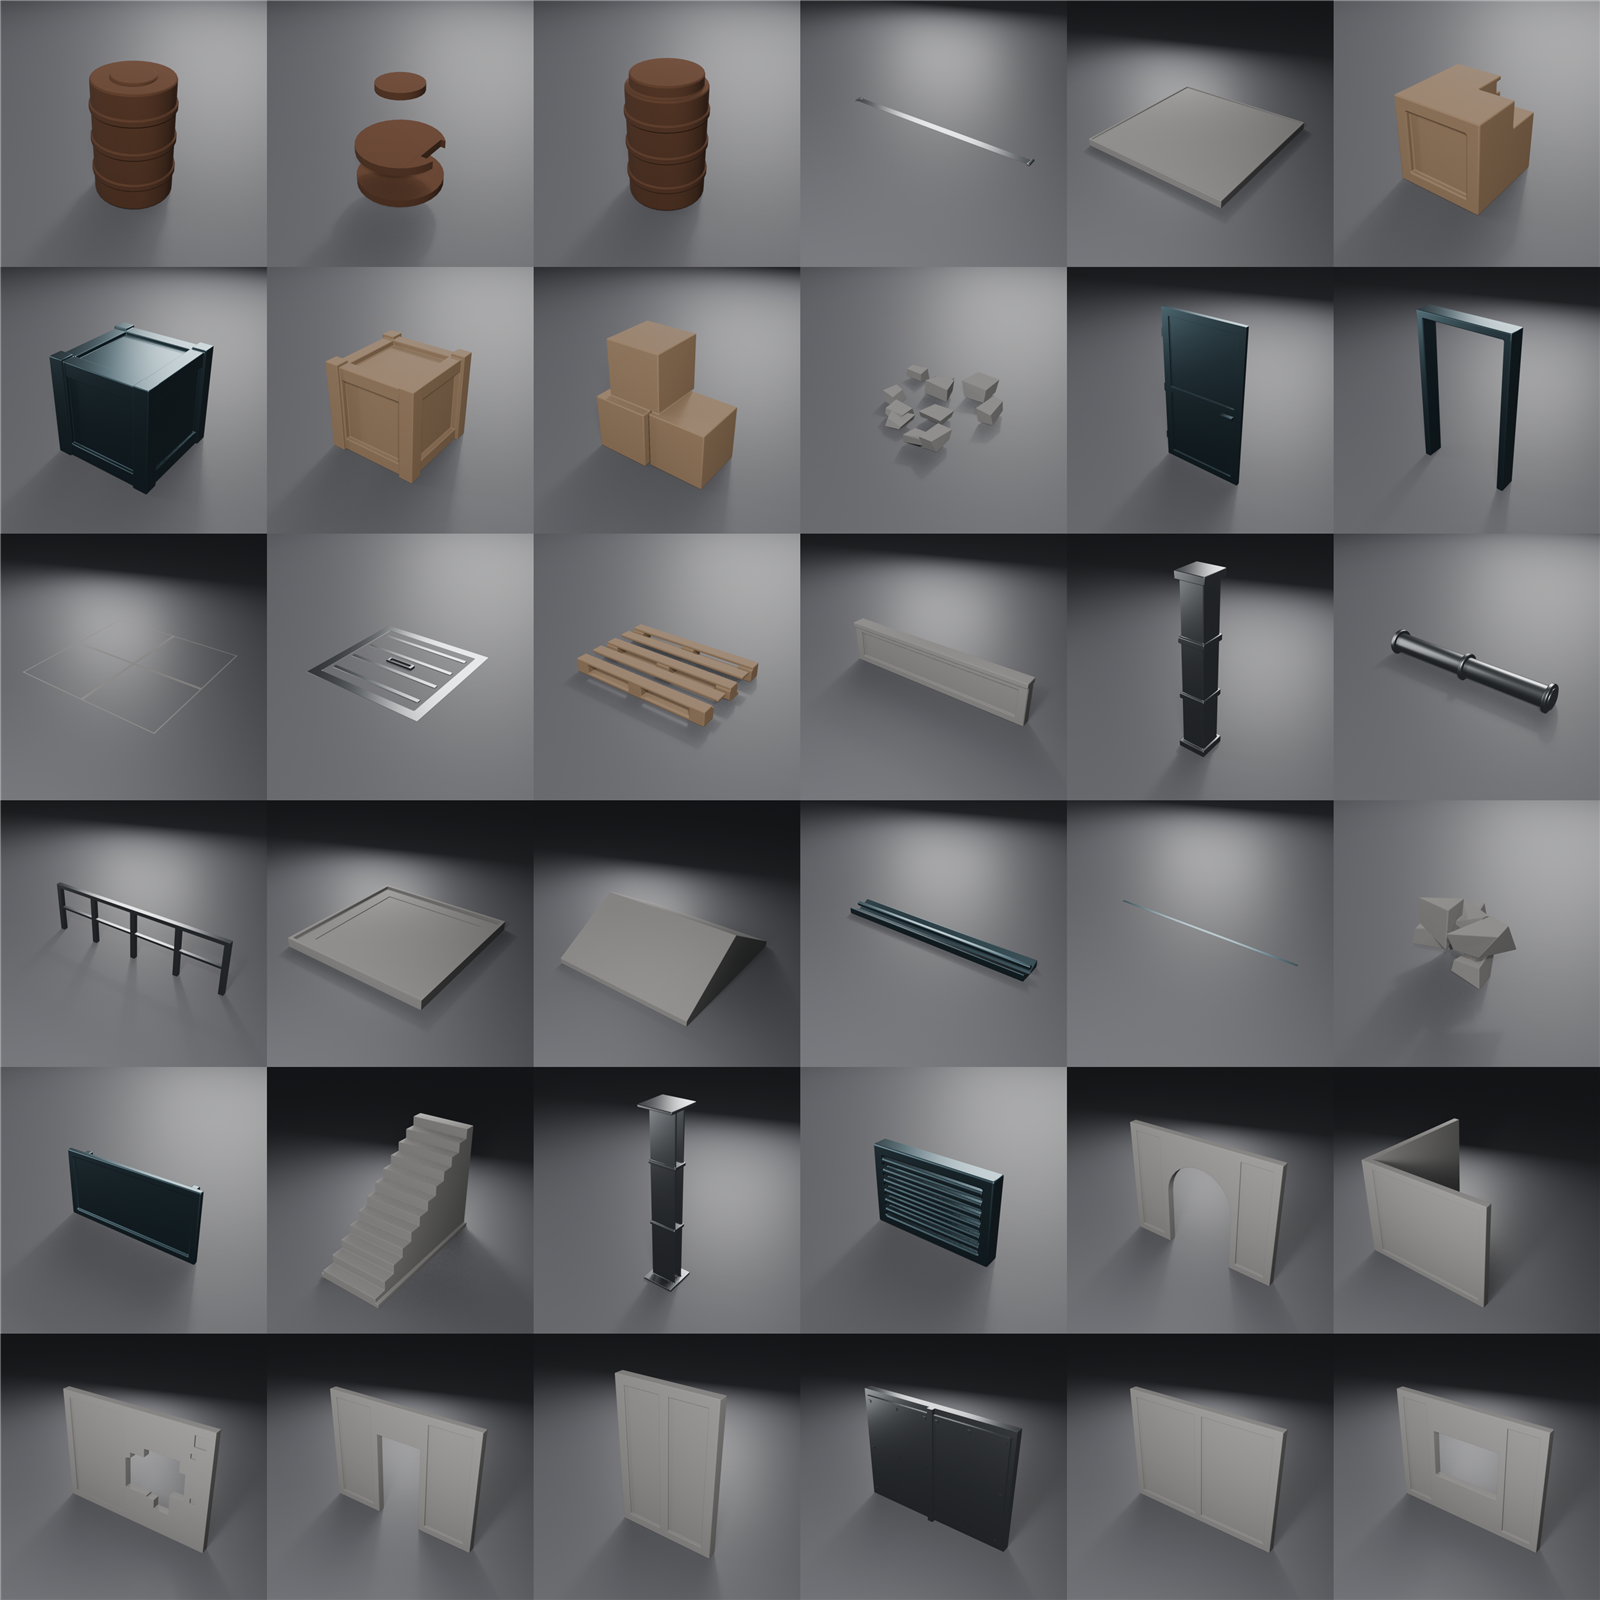
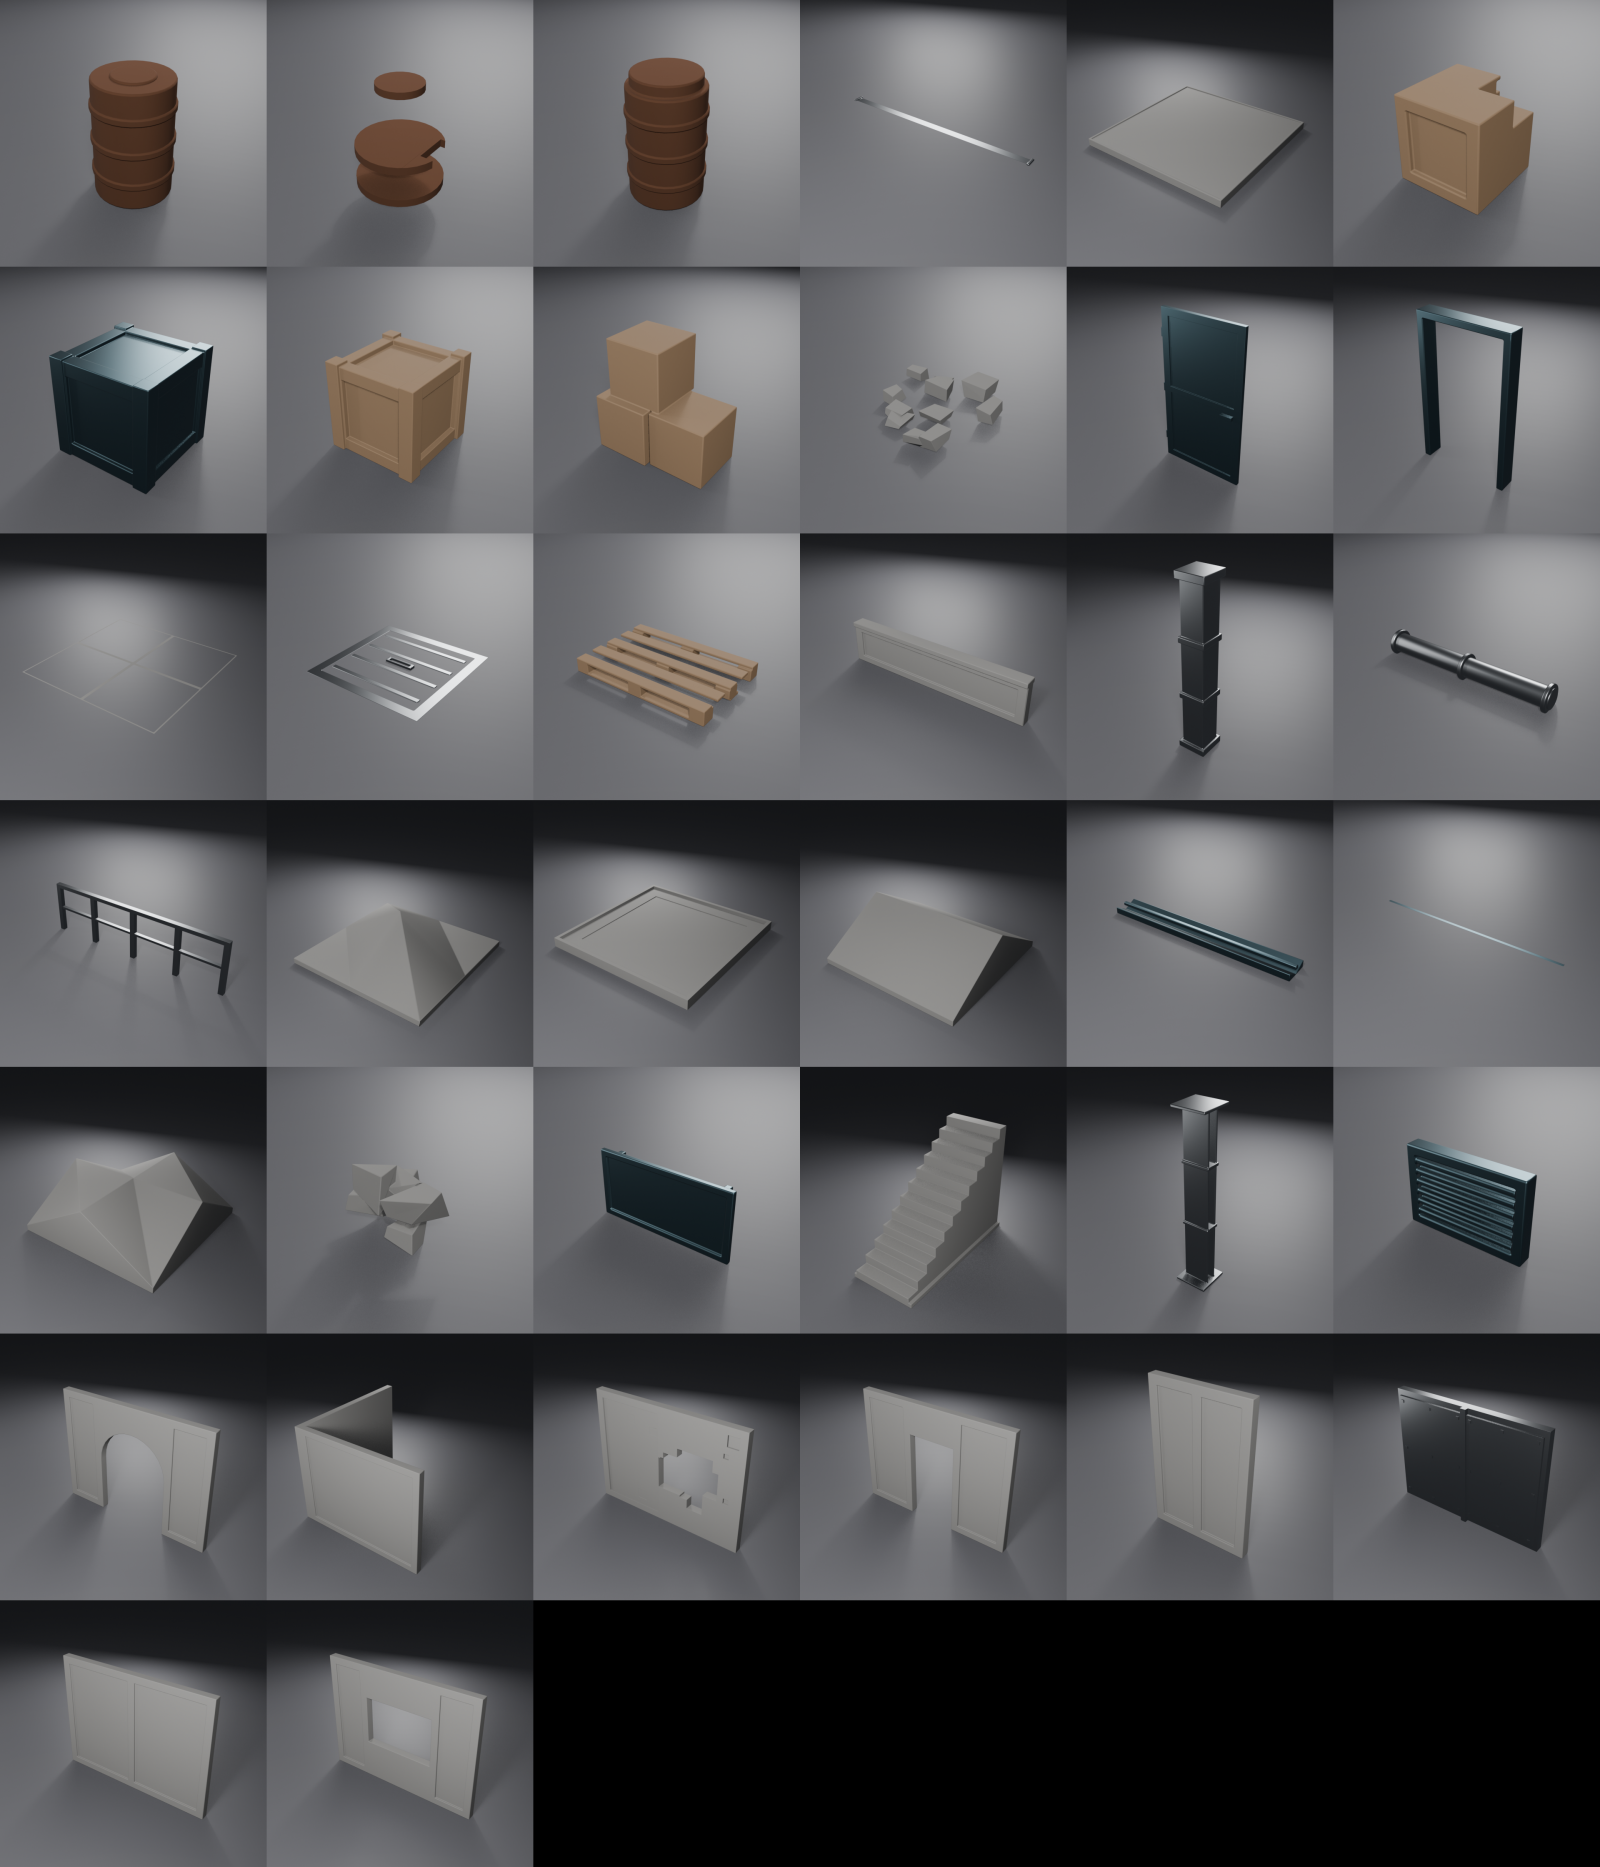
Prepare ModKit v1.2 public release

diff --git a/index.html b/index.html
@@ -8,7 +8,17 @@
 <meta charset="utf-8">
 <meta http-equiv="refresh" content="0; url=./docs/">
 <link rel="canonical" href="./docs/">
-<title>ModKit — free CC0 modular asset pack</title>
+<title>ModKit — 38 free CC0 modular assets</title>
+<meta name="description" content="38 procedural CC0 building and prop assets for Unreal, Unity, three.js and Blender. Try every mesh live or download the complete pack.">
+<meta property="og:title" content="ModKit — 38 free CC0 modular assets">
+<meta property="og:description" content="Procedural, grid-snapping game assets for Unreal, Unity, three.js and Blender. FBX, GLB and .blend included.">
+<meta property="og:image" content="https://raw.githubusercontent.com/JaronKBragg7337/asset-pack-ue-threejs-blender-unity/main/previews/_ContactSheet_web.png">
+<meta property="og:url" content="https://jaronkbragg7337.github.io/asset-pack-ue-threejs-blender-unity/">
+<meta property="og:type" content="website">
+<meta name="twitter:card" content="summary_large_image">
+<meta name="twitter:title" content="ModKit — 38 free CC0 modular assets">
+<meta name="twitter:description" content="Procedural, grid-snapping game assets for Unreal, Unity, three.js and Blender.">
+<meta name="twitter:image" content="https://raw.githubusercontent.com/JaronKBragg7337/asset-pack-ue-threejs-blender-unity/main/previews/_ContactSheet_web.png">
 </head>
 <body style="font-family:system-ui;background:#0d0f12;color:#e6e9ee;padding:40px">
 <p>Redirecting to the <a href="./docs/" style="color:#5b9dd9">ModKit viewer</a>…</p>

diff --git a/docs/index.html b/docs/index.html
@@ -8,7 +8,12 @@
 <meta property="og:title" content="ModKit — free CC0 modular asset pack">
 <meta property="og:description" content="38 procedurally generated public-domain 3D assets for Unreal, Unity, three.js and Blender.">
 <meta property="og:image" content="https://raw.githubusercontent.com/JaronKBragg7337/asset-pack-ue-threejs-blender-unity/main/previews/_ContactSheet_web.png">
+<meta property="og:url" content="https://jaronkbragg7337.github.io/asset-pack-ue-threejs-blender-unity/">
+<meta property="og:type" content="website">
 <meta name="twitter:card" content="summary_large_image">
+<meta name="twitter:title" content="ModKit — 38 free CC0 modular assets">
+<meta name="twitter:description" content="Procedural, grid-snapping assets for Unreal, Unity, three.js and Blender.">
+<meta name="twitter:image" content="https://raw.githubusercontent.com/JaronKBragg7337/asset-pack-ue-threejs-blender-unity/main/previews/_ContactSheet_web.png">
 <style>
   :root{
     --bg:#0d0f12; --panel:#15181d; --line:#252a32;

diff --git a/scripts/make_sheet.py b/scripts/make_sheet.py
@@ -12,6 +12,7 @@ import bpy
 ROOT = os.path.abspath(os.path.join(os.path.dirname(__file__), ".."))
 PREV = os.path.join(ROOT, "previews")
 COLS = 6
+WEB_WIDTH = 1600
 
 
 def load(path):
@@ -44,7 +45,12 @@ def main():
     out.filepath_raw = os.path.join(PREV, "_ContactSheet.png")
     out.file_format = 'PNG'
     out.save()
-    print("SHEET %d tiles -> %dx%d" % (len(tiles), COLS * tw, rows * th))
+    web_height = round(WEB_WIDTH * rows / COLS)
+    out.scale(WEB_WIDTH, web_height)
+    out.filepath_raw = os.path.join(PREV, "_ContactSheet_web.png")
+    out.save()
+    print("SHEET %d tiles -> %dx%d, web %dx%d"
+          % (len(tiles), COLS * tw, rows * th, WEB_WIDTH, web_height))
 
 
 if __name__ == "__main__":

diff --git a/docs/release_notes_v1.2.md b/docs/release_notes_v1.2.md
@@ -1,0 +1,35 @@
+**38 procedurally generated meshes** for Unreal Engine, Unity, three.js and Blender. Public domain (CC0) — commercial use, no attribution.
+
+### ▶ [Try every asset in your browser](https://jaronkbragg7337.github.io/asset-pack-ue-threejs-blender-unity/)
+
+![All 38 assets](https://raw.githubusercontent.com/JaronKBragg7337/asset-pack-ue-threejs-blender-unity/main/previews/_ContactSheet_web.png)
+
+## New in v1.2
+
+**Roof corner and valley junctions** close the largest remaining gap in the modular roof set. L- and T-shaped buildings can now use a square hip corner and a cross-gable valley piece that match the existing roof pitch, thickness and overhang.
+
+Both new meshes are procedurally generated, watertight manifolds with grid-corner pivots and complete FBX, LOD FBX, GLB, Blender and preview outputs. All 36 existing asset triangle counts remain unchanged.
+
+## Download
+
+**`ModKit-v1.2.zip`** below contains the complete pack — no clone or build step required.
+
+| Folder | Use it for |
+|---|---|
+| `exports/FBX_Nanite/` | Unreal 5 (Nanite), Unity |
+| `exports/FBX_LOD/` | Mobile, older engines, no-Nanite pipelines |
+| `exports/GLTF/` | three.js, Godot, web |
+| `source/ModKit.blend` | Editing the originals (Blender 5.1) |
+| `scripts/` | Procedurally rebuilding or extending the entire pack |
+
+## Verified
+
+- all 38 assets load in the public three.js viewer
+- all 38 meshes imported into Unreal Engine 5.8 with Nanite enabled
+- all 38 LOD assets have four non-increasing LOD levels
+- zero Unreal validation problems
+- zero non-manifold edges on the new roof junctions
+
+## Still no textures
+
+Shading remains geometric: watertight solids, a 1.2 cm bevel with hardened normals, and a weighted-normal pass. **Import normals — don't recompute them**, or every bevel softens and the pack looks muddy.

diff --git a/README.md b/README.md
@@ -10,8 +10,10 @@ Unreal Engine, Unity, three.js and Blender.
 
 ### ▶ [Try it in your browser](https://jaronkbragg7337.github.io/asset-pack-ue-threejs-blender-unity/)
 
+### ⬇ [Download ModKit v1.2](https://github.com/JaronKBragg7337/asset-pack-ue-threejs-blender-unity/releases/latest)
+
 Spin every piece, toggle wireframe, read the triangle count and real-world
-dimensions. No download, no signup.
+dimensions. The complete FBX, GLB and Blender pack is one ZIP. No signup.
 
 ![All 38 assets](previews/_ContactSheet_web.png)
 
@@ -310,10 +312,10 @@ to `define_assets()`. The library gives you `add_box`, `add_cylinder`, `carve`,
 │   ├── ue_validate.py            Unreal-side audit
 │   └── check_unreal_mcp.py       verifies UE 5.8's MCP server is live
 ├── exports/
-│   ├── FBX_Nanite/               36 single-mesh FBX
-│   ├── FBX_LOD/                  36 LOD-chain FBX
-│   └── GLTF/                     36 GLB
-├── previews/                     36 renders + contact sheets
+│   ├── FBX_Nanite/               38 single-mesh FBX
+│   ├── FBX_LOD/                  38 LOD-chain FBX
+│   └── GLTF/                     38 GLB
+├── previews/                     38 renders + contact sheets
 └── docs/
     ├── asset_manifest.csv        tri and vert counts
     └── ue_validation.txt         audit report
@@ -322,7 +324,7 @@ to `define_assets()`. The library gives you `add_box`, `add_cylinder`, `carve`,
 ## Verification
 
 `docs/ue_validation.txt` is a real audit of the imported pack, not a claim:
-all 36 meshes have Nanite enabled in the Nanite set, all 36 have a 4-level LOD
+all 38 meshes have Nanite enabled in the Nanite set, all 38 have a 4-level LOD
 chain with non-increasing triangle counts in the LOD set, zero problems
 reported.
 
@@ -335,8 +337,8 @@ line in `define_assets()`.
 * Humans: [`CONTRIBUTING.md`](CONTRIBUTING.md)
 * AI agents (Codex, Claude Code, Cursor): [`AGENTS.md`](AGENTS.md)
 
-Wanted most: roofs and roof trims, damaged/reinforced wall variants, interior
-pieces, more prop states, and small example scenes per engine.
+Wanted most: more wall variants, small example scenes per engine, richer
+materials, stair variants, and a command-line preset selector.
 
 ## License
 

diff --git a/AGENTS.md b/AGENTS.md
@@ -148,22 +148,20 @@ diff /tmp/before.csv docs/asset_manifest.csv
 ## Roadmap — good next contributions
 
 Done in v1.1: roofs, damaged/reinforced walls, interior pieces, prop states,
-and the three.js viewer on GitHub Pages.
+and the three.js viewer on GitHub Pages. Done in v1.2: roof corner and valley
+junctions for L- and T-shaped buildings.
 
 Ordered roughly by value:
 
-1. **Roof corner + valley pieces** — the roof set covers flat, pitched, ridge
-   and eave, but has no corner or valley, so L-shaped buildings can't be
-   roofed cleanly. Highest-value gap right now.
-2. **More wall variants** — boarded-up, pipework-clad, half-height with
+1. **More wall variants** — boarded-up, pipework-clad, half-height with
    railing, windowed double-height.
-3. **Example scenes** — one small demo level per engine showing how pieces fit
+2. **Example scenes** — one small demo level per engine showing how pieces fit
    together. A `build_demo_scene.py` that assembles a building from the kit
    inside Blender would serve all three engines at once.
-4. **Vertex colours or a proper master material** in the .blend for better
+3. **Vertex colours or a proper master material** in the .blend for better
    default shading (currently flat placeholder PBR).
-5. **Stair variants** — spiral, half-landing, open-tread industrial.
-6. **A `--preset` CLI flag** for `build_kit.py` so the chunky/fine/compact
+4. **Stair variants** — spiral, half-landing, open-tread industrial.
+5. **A `--preset` CLI flag** for `build_kit.py` so the chunky/fine/compact
    presets can be built without editing `kit_config.py`.
 
 If you add a roof corner, match `SM_Roof_Pitched_4m`: same `ROOF_RISE`, same

diff --git a/CONTRIBUTING.md b/CONTRIBUTING.md
@@ -86,8 +86,8 @@ Screenshots or a preview render in the PR are very welcome.
 
 ## Ideas that would help most
 
-Roofs and roof trims, damaged/reinforced wall variants, interior pieces
-(beams, supports, door variants), more prop states, and small example scenes
-per engine. See the roadmap in [`AGENTS.md`](AGENTS.md) for detail.
+More wall variants, small example scenes per engine, richer materials, stair
+variants, and build-preset tooling. See the roadmap in [`AGENTS.md`](AGENTS.md)
+for detail.
 
 Questions are fine — open an issue.